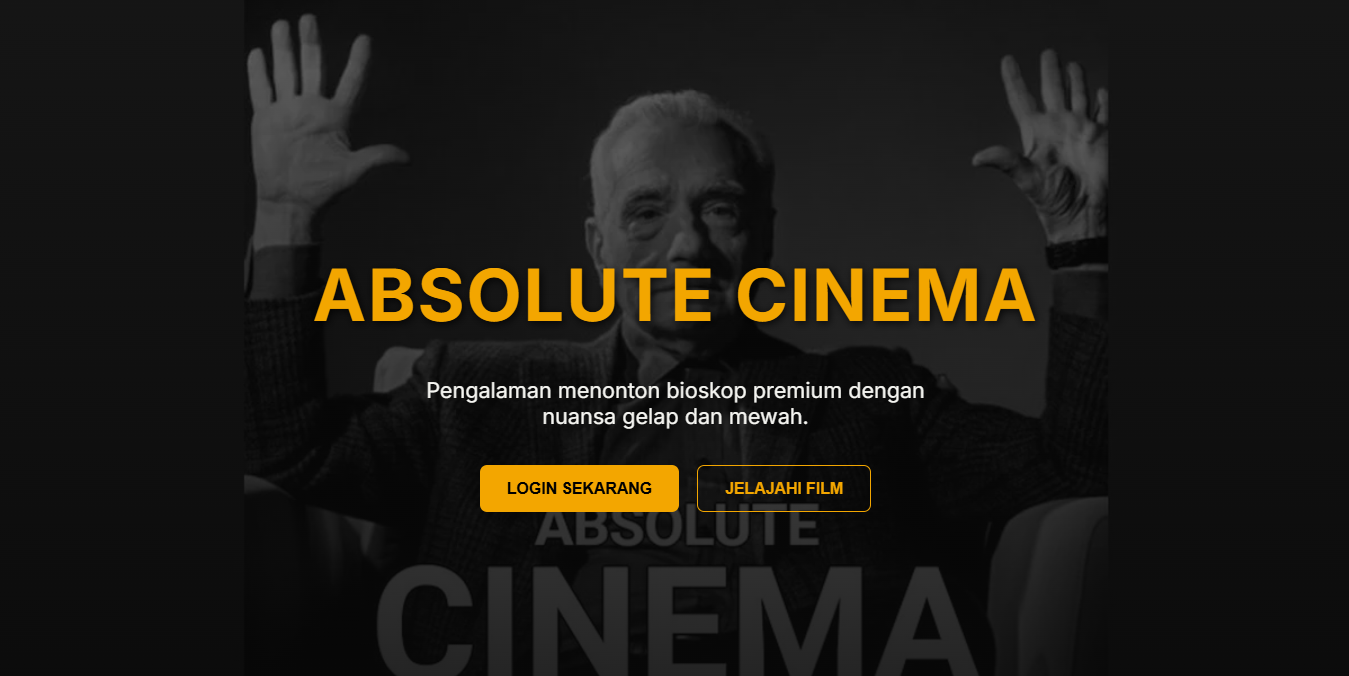
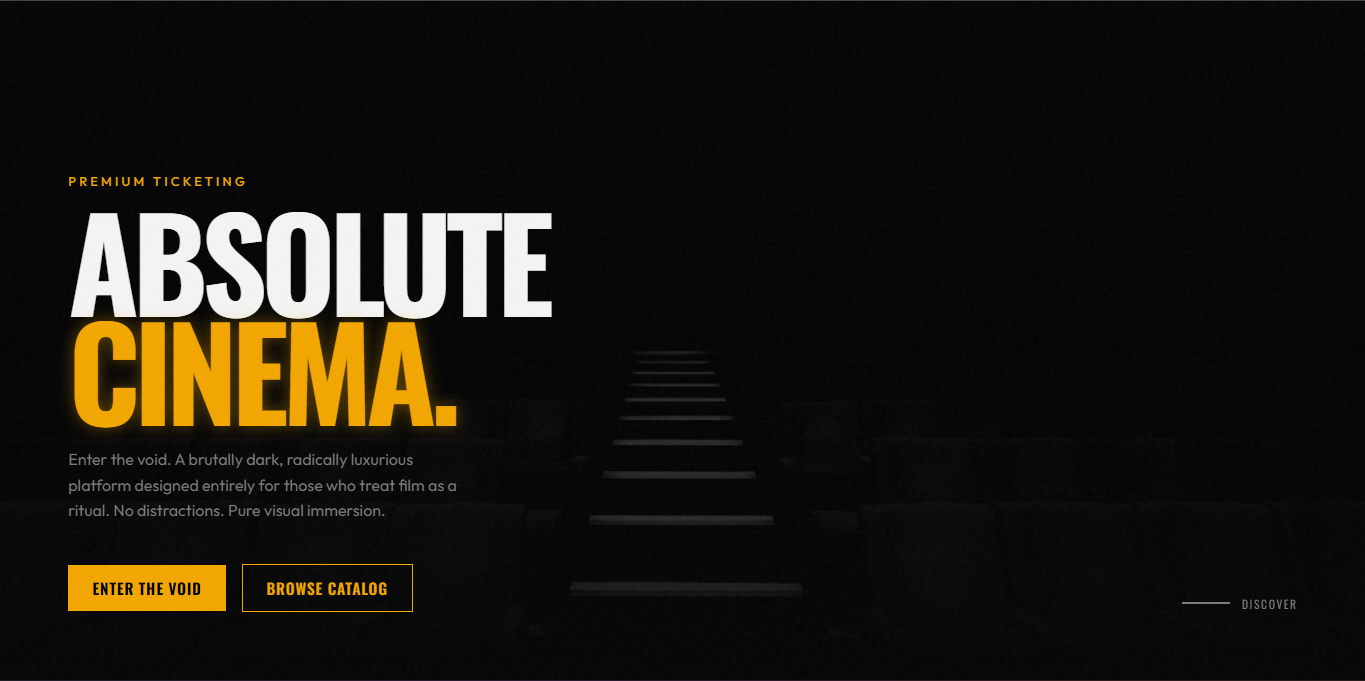
update: readme and uml

Changed region(s): [[0.0, 0.0, 1.0, 1.0], [0.7472, 0.7145, 0.8095, 0.9009], [0.8718, 0.8698, 0.9652, 0.9009]]

diff --git a/frontend/customer/styles.css b/frontend/customer/styles.css
@@ -39,7 +39,7 @@
 }
 
 .saldo-badge::before {
-  content: 'IDR ';
+  content: "IDR ";
   font-size: 0.7rem;
   vertical-align: super;
 }
@@ -89,7 +89,7 @@
 /* Grid */
 .editorial-grid {
   display: grid;
-  grid-template-columns: repeat(auto-fill, minmax(320px, 1fr));
+  grid-template-columns: repeat(4, 1fr);
   gap: 2rem;
 }
 
@@ -105,10 +105,12 @@
 }
 
 .movie-card::before {
-  content: '';
+  content: "";
   position: absolute;
-  top: 0; left: 0;
-  width: 4px; height: 100%;
+  top: 0;
+  left: 0;
+  width: 4px;
+  height: 100%;
   background: var(--accent-neon);
   transform: scaleY(0);
   transform-origin: bottom;
@@ -126,7 +128,8 @@
 
 .card-visual {
   height: 180px;
-  background: url("https://images.unsplash.com/photo-1595769816263-9b910be24d5f?q=80&w=2079&auto=format&fit=crop") center/cover;
+  background: url("https://images.unsplash.com/photo-1595769816263-9b910be24d5f?q=80&w=2079&auto=format&fit=crop")
+    center/cover;
   filter: grayscale(100%);
   padding: 1.5rem;
   display: flex;
@@ -150,7 +153,7 @@
 }
 
 .duration-tag {
-  background: rgba(5,5,5,0.8);
+  background: rgba(5, 5, 5, 0.8);
   color: var(--accent-neon);
   padding: 5px 12px;
   font-family: var(--font-display);
@@ -225,13 +228,13 @@
 
 /* TICKET STUB */
 .ticket-card {
-  background: #E8E8E8; /* Bright contrast for the physical stub feel */
+  background: #e8e8e8; /* Bright contrast for the physical stub feel */
   color: #111;
   border-radius: 0;
   display: flex;
   flex-direction: column;
   position: relative;
-  box-shadow: 10px 10px 0 rgba(229,169,9,0.3);
+  box-shadow: 10px 10px 0 rgba(229, 169, 9, 0.3);
   overflow: hidden;
 }
 
@@ -262,16 +265,22 @@
   position: relative;
 }
 
-.perforation::before, .perforation::after {
-  content: '';
+.perforation::before,
+.perforation::after {
+  content: "";
   position: absolute;
   top: -10px;
-  width: 20px; height: 20px;
+  width: 20px;
+  height: 20px;
   background: var(--bg-main);
   border-radius: 50%;
 }
-.perforation::before { left: -32px; }
-.perforation::after { right: -32px; }
+.perforation::before {
+  left: -32px;
+}
+.perforation::after {
+  right: -32px;
+}
 
 .seat-number {
   font-family: var(--font-display);
@@ -283,7 +292,19 @@
 
 .barcode {
   height: 40px;
-  background: repeating-linear-gradient(90deg, #111, #111 2px, transparent 2px, transparent 4px, #111 4px, #111 5px, transparent 5px, transparent 8px, #111 8px, #111 12px);
+  background: repeating-linear-gradient(
+    90deg,
+    #111,
+    #111 2px,
+    transparent 2px,
+    transparent 4px,
+    #111 4px,
+    #111 5px,
+    transparent 5px,
+    transparent 8px,
+    #111 8px,
+    #111 12px
+  );
   margin-top: 1rem;
   opacity: 0.8;
 }
@@ -353,9 +374,12 @@
 }
 
 .seat::after {
-  content: '';
+  content: "";
   position: absolute;
-  top: 5px; left: 5px; right: 5px; height: 3px;
+  top: 5px;
+  left: 5px;
+  right: 5px;
+  height: 3px;
   background: var(--border-raw);
   border-radius: 2px;
   transition: all 0.3s;
@@ -375,7 +399,7 @@
 }
 
 .seat.seat-selected::after {
-  background: rgba(0,0,0,0.3);
+  background: rgba(0, 0, 0, 0.3);
 }
 
 .seat.seat-booked {

diff --git a/READme.md b/READme.md
@@ -1,80 +1,102 @@
-# Project Pemrogramn Komputer
+# Sistem Ticketing Bioskop
 
-Project ini merupakan tugas dari mata kuliah Pemrograman Komputer yang mengintegrasikan konsep OOP pada Java.
+Sistem Ticketing Bioskop adalah platform manajemen tiket bioskop yang dirancang dengan design **Brutalist Dark**. Proyek ini menggabungkan backend berbasis Java Spring Boot dengan frontend menggunakan Vanilla HTML/CSS/JS.
 
-Dibuat oleh kelompok 3:
-1. Aqilah Rafif Masrian
-2. Duhairillah
-3. Ega Asliya Putri
-4. M Rasyid Ridho
-5. Rizky Aditya Kairupan
-6. Sulivan Cahyadi
+## 🚀 Fitur Utama
+
+### 👤 Pengguna (Customer)
+
+- **Registrasi & Login**: Keamanan akses akun personal.
+- **Katalog Film**: Telusuri film yang sedang tayang dengan tampilan imersif.
+- **Pemesanan Tiket**: Pilih kursi secara visual dan beli tiket secara real-time.
+- **Sistem Saldo**: Top-up saldo untuk kemudahan transaksi tanpa uang tunai.
+- **Riwayat Tiket**: Lihat daftar tiket yang telah dipesan sebelumnya.
+
+### 🛠 Admin
+
+- **Dashboard Manajemen**: Kelola seluruh ekosistem bioskop.
+- **Manajemen Film**: Tambah, edit, atau hapus film dari katalog.
+- **Penjadwalan**: Atur jam tayang film di berbagai tipe studio (Reguler, Premium, IMAX, VIP).
+- **Manajemen User**: Pantau dan kelola data pengguna yang terdaftar.
+
+## 🛠 Tech Stack
+
+- **Backend**: Java 21, Spring Boot (Web MVC)
+- **Frontend**: HTML5, CSS3, Vanilla JavaScript
+- **Penyimpanan Data**: CSV (File-based Persistence) - Data disimpan di `src/main/java/sistem/tiket/bioskop/data/`
+- **Komunikasi**: RESTful API (JSON)
+
+## Arsitektur Proyek
+
+Proyek ini mengikuti pola arsitektur N-Tier/MVC sederhana yang dipisahkan menjadi:
+
+- **Model**: Definisi objek data (User, Movie, Tiket, dll).
+- **Repository**: Logika akses data dan manipulasi file CSV.
+- **Controller**: Logika bisnis utama (Auth, Booking, Movie, Schedule).
+- **Rest Controller**: Interface API untuk komunikasi dengan frontend.
+- **Frontend**: Komponen UI yang terbagi menjadi modul `admin`, `customer`, dan `login`.
+
+## 📡 API Endpoints (Ringkasan)
+
+| Endpoint             | Method     | Deskripsi                   |
+| :------------------- | :--------- | :-------------------------- |
+| `/api/auth/login`    | POST       | Login pengguna              |
+| `/api/auth/register` | POST       | Registrasi pengguna baru    |
+| `/api/movies`        | GET / POST | Ambil/Tambah data film      |
+| `/api/schedules`     | GET / POST | Ambil/Tambah jadwal tayang  |
+| `/api/bookings`      | POST       | Pemesanan tiket baru        |
+| `/api/users/topup`   | POST       | Top-up saldo pengguna       |
+| `/api/tickets`       | GET        | Ambil seluruh riwayat tiket |
+
+## ⚙ Cara Menjalankan Proyek
+
+### Prasyarat
+
+- Java Development Kit (JDK) 21
+- Maven installed (opsional, sudah disediakan `mvnw`)
+
+### Langkah-langkah
+
+1. **Jalankan Backend**:
+   Buka terminal di root direktori proyek dan jalankan:
+
+   ```bash
+   ./mvnw spring-boot:run
+   ```
+
+   Backend akan berjalan di `http://localhost:8080`.
+
+2. **Akses Frontend**:
+   Buka file `frontend/index.html` di browser pilihan Anda (direkomendasikan menggunakan Live Server di VS Code).
+
+## Struktur Direktori
+
+```text
+.
+├── src/main/java/sistem/tiket/bioskop/
+│   ├── controller/   # Logika Bisnis & API
+│   ├── data/         # File CSV (Database)
+│   ├── model/         # Objek Data
+│   ├── repository/    # Akses CSV
+│   └── utils/         # Helper (CSV Reader/Writer)
+├── frontend/
+│   ├── admin/        # Dashboard Admin
+│   ├── customer/     # Portal Customer
+│   ├── login/        # Halaman Login/Regis
+│   └── index.html    # Landing Page
+└── diagram.plantuml  # Dokumentasi Arsitektur
+```
 
 ---
 
-## Stack yang kita gunakan
+## 📸 Showcase Project
 
-- Language: Java, JavaScript
-- Framework: Spring Boot Rest API
-- Data Management: CSV (Read Scanner ke ArrayList)
-- UI: HTML, CSS
+Berikut adalah tampilan antarmuka dari Absolute Cinema:
 
----
-
-## Struktur Project
-
-```
-frontend/
-│   globals.css
-│   index.html
-│   script.js
-│
-├───admin
-│       dashboard.html
-│       script.js
-│       styles.css
-│
-├───customer
-│       customer.html
-│       script.js
-│       styles.css
-│
-└───login
-        login.html
-        script.js
-        styles.css
-```
-```
-src/
-├───main
-│   ├───java/sistem/tiket/bioskop
-│   │   ├───controller
-|   |   ├───data
-|   |   ├───model
-|   |   ├───repository
-|   |   └───BioskopApplication.java         #entry point
-|   |   
-│   └───resources
-│       ├───static
-│       └───templates
-└───test
-    └───java
-        └───sistem
-            └───tiket
-                └───bioskop
-```
+|               Landing Page               |                Halaman Login                 |
+| :--------------------------------------: | :------------------------------------------: |
+| ![Landing Page](assets/cover_depan.png)  |     ![Login Page](assets/login_page.png)     |
+|           **Admin Dashboard**            |             **Customer Portal**              |
+| ![Admin Dashboard](assets/dashboard.png) | ![Customer Portal](assets/customer_page.png) |
 
 ---
-
-## Screenshoot UML
-
-![alt text](/assets/uml.png)
-
----
-
-## Showcase Project
-
-![alt text](/assets/cover_depan.png)
-![alt text](/assets/halaman_login.png)
-![alt text](/assets/dashboard.png)
-![alt text](/assets/customer_page.png)
